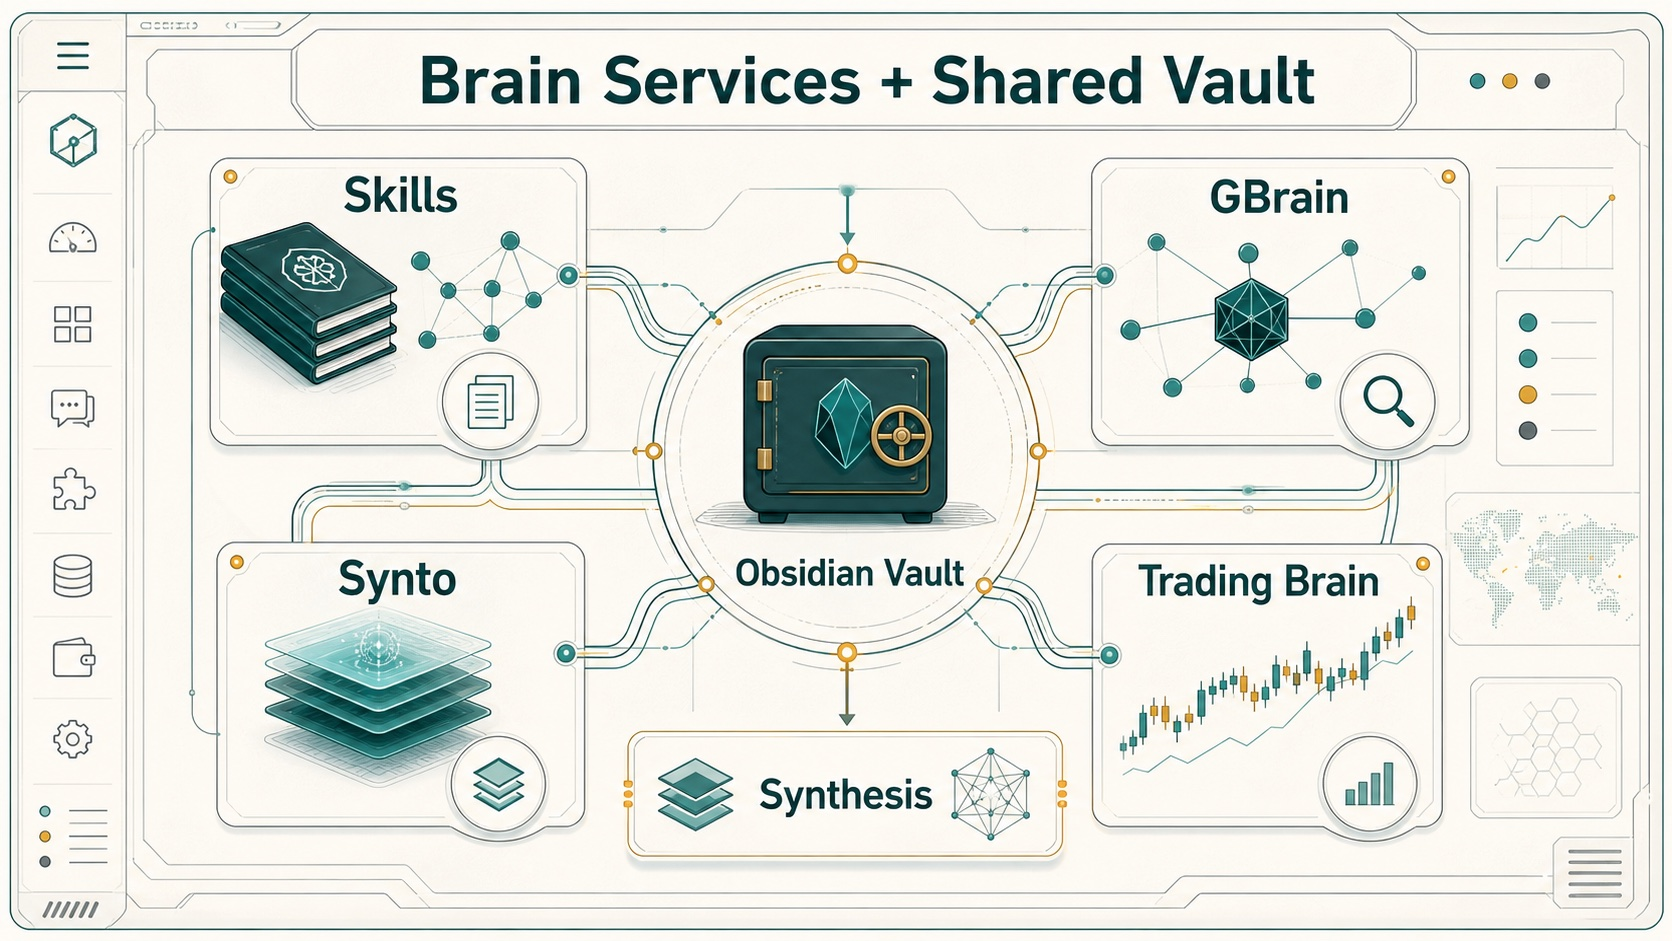
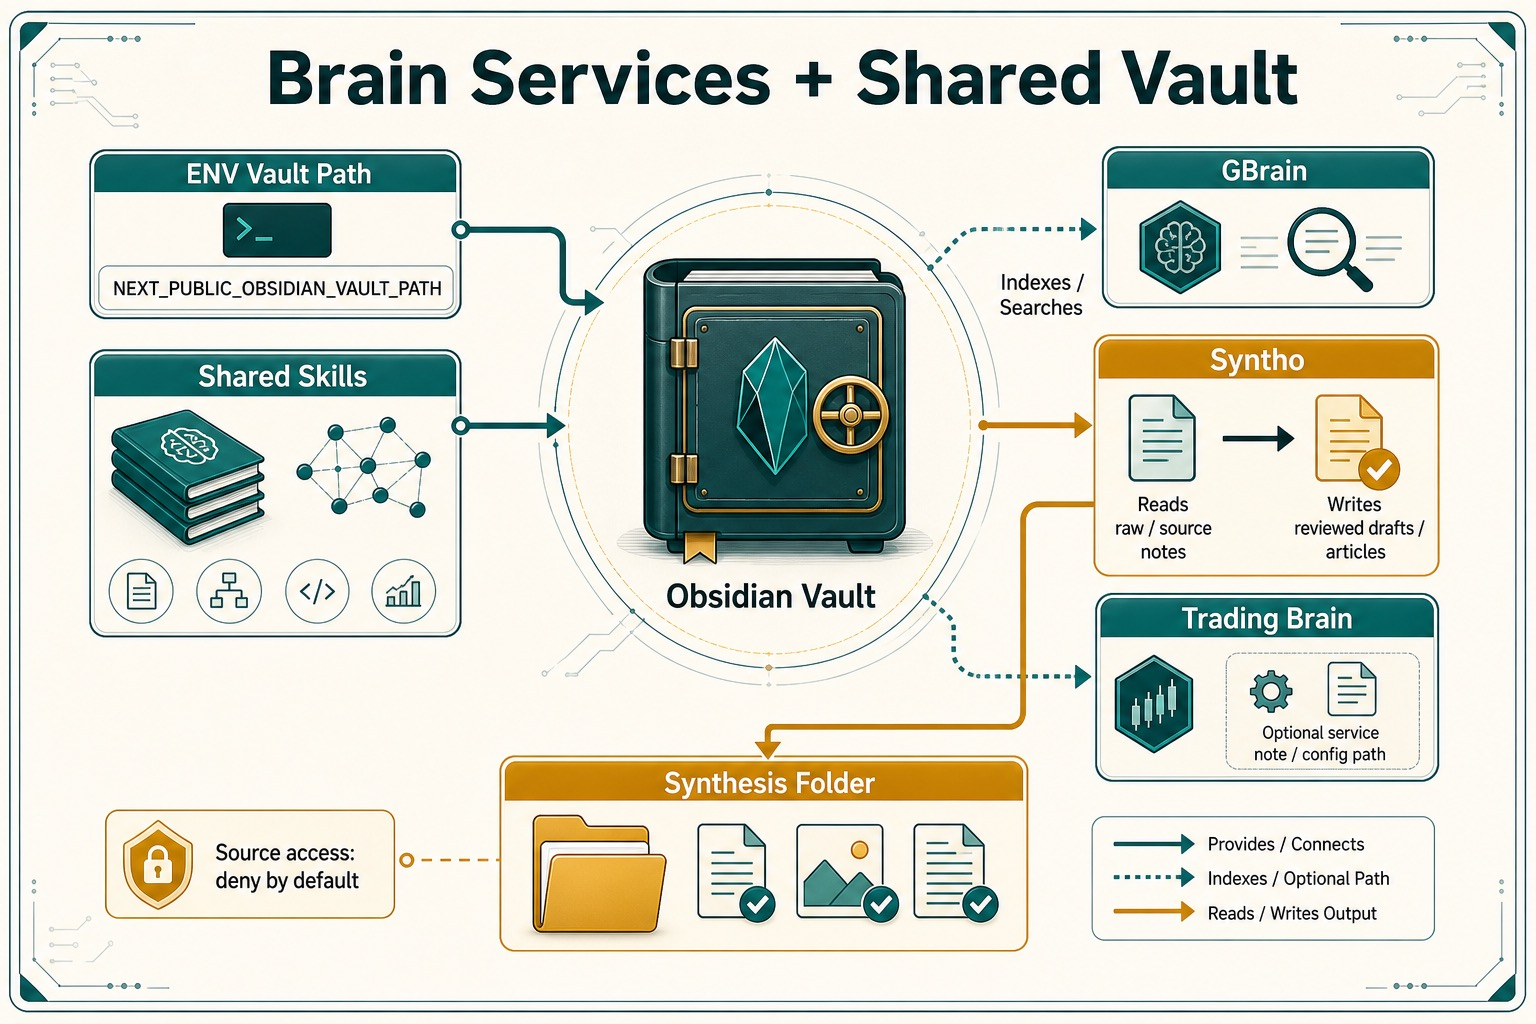
Correct imagegen diagram semantics

diff --git a/docs/diagrams.md b/docs/diagrams.md
@@ -19,16 +19,16 @@ description: Visual atlas for HivemindOS architecture, wallets, runtimes, fleet,
 
 <div class="imagePlateGrid">
   <figure class="imagePlate">
-    <img src="assets/img/diagrams/wallet-token-rails.jpg" alt="Generated wallet and token rails infographic showing agent wallet, Base and Solana, USDC, UsePod, x402, Honey, and Bankr HIVE.">
-    <figcaption>Wallets, token rails, prepaid inference, Honey, Bankr HIVE, and x402.</figcaption>
+    <img src="assets/img/diagrams/wallet-token-rails.jpg" alt="Generated wallet and token rails infographic with separate lanes for x402 paid APIs, UsePod prepaid runtime deposits, and Honey to Bankr HIVE claims.">
+    <figcaption>Wallet rails are three separate paths: wallet to x402, wallet to UsePod prepaid runtime, and runtime usage to Honey to Bankr HIVE claim.</figcaption>
   </figure>
   <figure class="imagePlate">
     <img src="assets/img/diagrams/fleet-tailnet-topology.jpg" alt="Generated fleet and Tailnet topology infographic showing dashboard, local collector, Tailnet or Link, remote collectors, apps, and runtimes.">
-    <figcaption>Fleet, collectors, Tailnet/Link reachability, app proxies, and runtimes.</figcaption>
+    <figcaption>Dashboard to local collector, then private Tailnet reachability out to remote collectors, machine health, apps, and runtimes.</figcaption>
   </figure>
   <figure class="imagePlate">
-    <img src="assets/img/diagrams/brain-services-vault.jpg" alt="Generated brain services and shared vault infographic showing Obsidian Vault, Skills, GBrain, Synto, Trading Brain, and Synthesis.">
-    <figcaption>Obsidian vault, shared skills, GBrain, Synto, Trading Brain, and Synthesis.</figcaption>
+    <img src="assets/img/diagrams/brain-services-vault.jpg" alt="Generated brain services and shared vault infographic showing ENV vault path, Obsidian Vault, Skills, GBrain, Syntho, Trading Brain, and Synthesis Folder.">
+    <figcaption>ENV vault path into Obsidian, shared skills, GBrain retrieval, Syntho reviewed output, Trading Brain, and the Synthesis folder.</figcaption>
   </figure>
   <figure class="imagePlate">
     <img src="assets/img/diagrams/workboard-scheduler-loop.jpg" alt="Generated workboard and scheduler loop infographic showing Ideas, Ready, Working, Done, Scheduler, Deliverables, and History.">
@@ -54,7 +54,7 @@ description: Visual atlas for HivemindOS architecture, wallets, runtimes, fleet,
   <a href="#honey-hive-flow">Honey And HIVE Flow <span>Observed usage, Honey ledger, Bankr claim path.</span></a>
   <a href="#workboard-lifecycle">Workboard Lifecycle <span>Ideas, assignment, runs, deliverables, history.</span></a>
   <a href="#scheduler-loop">Scheduler Loop <span>Shared schedules, runtime actions, skills, run phases.</span></a>
-  <a href="#brain-services">Brain Services <span>Obsidian, skills, GBrain, Synto, trading brain.</span></a>
+  <a href="#brain-services">Brain Services <span>Obsidian, skills, GBrain, Syntho, trading brain.</span></a>
   <a href="#native-bridge">Native Bridge <span>Tauri-first local actions with browser fallbacks.</span></a>
   <a href="#phone-voice">Phone And Voice <span>Gateway, pairing, ring-agent, dashboard calls.</span></a>
   <a href="#aeon-github">AEON GitHub Path <span>OAuth, repo setup, Actions, OIDC brain access.</span></a>
@@ -96,7 +96,7 @@ flowchart LR
   <section class="infoTile"><b>01</b><strong>Fleet</strong><span>Discovers machines, collectors, app badges, health, and hivenet services.</span></section>
   <section class="infoTile"><b>02</b><strong>Agents</strong><span>Profiles bind runtime, model, env, wallet, vault, machine, and call context.</span></section>
   <section class="infoTile"><b>03</b><strong>Work</strong><span>Kanban, scheduler, swarm, history, note intake, and deliverables.</span></section>
-  <section class="infoTile"><b>04</b><strong>Brain</strong><span>Obsidian memory, graph, shared skills, GBrain, Synto, trading brain.</span></section>
+  <section class="infoTile"><b>04</b><strong>Brain</strong><span>Obsidian memory, graph, shared skills, GBrain, Syntho, trading brain.</span></section>
   <section class="infoTile"><b>05</b><strong>Wallets</strong><span>Base/Solana, USDC, UsePod deposits, MoneyClaw, Honey, HIVE, x402.</span></section>
   <section class="infoTile"><b>06</b><strong>Native</strong><span>Tauri status, local folder actions, deliverable opening, packaged server.</span></section>
 </div>
@@ -222,10 +222,12 @@ flowchart TB
   Graph --> Dashboard["Brain Services cockpit"]
   Skills --> RuntimeSkills["Runtime skill sync"]
   Dashboard --> GBrain["GBrain import / embed / dream / query"]
-  Dashboard --> Synto["Synto Synthesis pipeline"]
+  Dashboard --> EnvPath["NEXT_PUBLIC_OBSIDIAN_VAULT_PATH"]
+  EnvPath --> Vault
+  Dashboard --> Syntho["Syntho reviewed-memory pipeline"]
   Dashboard --> Trading["Trading brain status"]
-  Synto --> Synthesis["Synthesis folder"]
-  Synto --> SourcePolicy["Source access policy: deny by default"]
+  Syntho --> Synthesis["Synthesis folder"]
+  Syntho --> SourcePolicy["Source access policy: deny by default"]
   GBrain --> Query["Graph memory query"]
 ```
 

diff --git a/docs/features/brain-vault-and-skills.md b/docs/features/brain-vault-and-skills.md
@@ -27,13 +27,13 @@ Seeded structure:
 - `Operations/Brain Services/Obsidian Plugin Pack.md` lists optional manual Obsidian plugins for templates, tasks, Dataview, retrieval, calendar, Kanban, and Git.
 - `Operations/Automations/Foundation Workflows/` contains disabled workflow schedules for context synthesis, intake processing, meeting processing, research ingestion, vault health checks, decision review, argument building, book notes, feedback-loop capture, project updates, weekly synthesis, connection finding, and distillation.
 
-## Brain Graph, GBrain, Synto, And Trading Brain
+## Brain Graph, GBrain, Syntho, And Trading Brain
 
 How it works:
 
 - Brain graph generation is in `src/lib/services/obsidian/brain-graph.ts`.
 - GBrain actions are in `src/lib/services/brain/gbrain.ts`.
-- Synto actions are in `src/lib/services/brain/synto.ts`.
+- Syntho actions are in `src/lib/services/brain/synto.ts`; the internal API slug and installed CLI command remain `synto`.
 - Trading-brain install/status lives in `src/lib/services/brain/trading-brain.ts`.
 - API routes live under `/api/brain/gbrain/*`, `/api/brain/synto/*`, `/api/brain/trading-brain/*`, and `/api/obsidian/graph`.
 
@@ -44,17 +44,17 @@ Capabilities:
 - Install or connect GBrain.
 - Import the vault into GBrain.
 - Embed, dream, and query through configured GBrain commands.
-- Install or connect Synto.
-- Initialize the `Synthesis` folder as a Synto vault.
-- Run Synto pipeline, maintain, compare, eval, doctor, query, and pack export commands.
-- Record the Synto MCP command and source-access policy in the brain-service note.
-- Keep Synto raw-source MCP access denied by default unless the user explicitly changes the source-access policy.
+- Install or connect Syntho.
+- Initialize the `Synthesis` folder as a Syntho vault.
+- Run Syntho pipeline, maintain, compare, eval, doctor, query, and pack export commands.
+- Record the Syntho MCP command and source-access policy in the brain-service note.
+- Keep Syntho raw-source MCP access denied by default unless the user explicitly changes the source-access policy.
 - Attach trading-brain status to selected runtimes where configured.
 - Write service notes back into the vault.
 
-### Synto Model
+### Syntho Model
 
-Synto is treated as an optional reviewed-memory compiler for the `Synthesis` folder, not as a replacement for the raw vault. HivemindOS tracks:
+Syntho is treated as an optional reviewed-memory compiler for the `Synthesis` folder, not as a replacement for the raw vault. HivemindOS tracks:
 
 - CLI path and install mode.
 - `synto.toml` and `.synto/state.db` initialization state.
@@ -62,7 +62,7 @@ Synto is treated as an optional reviewed-memory compiler for the `Synthesis` fol
 - MCP mode, MCP command, exposed tool names, and source-access mode.
 - Compare model, confidence threshold, and whether high-confidence changes can be auto-approved.
 
-The dashboard writes these settings into `Operations/Brain Services/Synto.md` and mirrors them into shared-vault config so other agents can see the intended policy.
+The dashboard writes these settings into `Operations/Brain Services/Syntho.md` and mirrors them into shared-vault config so other agents can see the intended policy.
 
 ## Shared Skills
 

diff --git a/docs/architecture/index.md b/docs/architecture/index.md
@@ -60,7 +60,7 @@ The dashboard route is `src/app/page.tsx`. It accepts `view` and `vaultPanel` qu
 - `src/features/dashboard/hooks/use-kanban-dispatch-controller.tsx`: agent dispatch, runtime session polling, completion handling, and stalled work detection.
 - `src/features/dashboard/hooks/use-scheduler-controller.tsx`: shared schedules and runtime schedule actions.
 - `src/features/dashboard/hooks/use-agent-controller.tsx`: runtime integrations, agent creation, runtime sessions, and agent settings.
-- `src/features/dashboard/hooks/use-miroshark-brain-controller.tsx`: MiroShark, Obsidian graph, shared skills, recent directories, GBrain/Synto-adjacent vault context, and shared notifications.
+- `src/features/dashboard/hooks/use-miroshark-brain-controller.tsx`: MiroShark, Obsidian graph, shared skills, recent directories, GBrain/Syntho-adjacent vault context, and shared notifications.
 - `src/features/dashboard/hooks/use-wallet-files-controller.tsx`: wallets, Honey, runtime usage, MoneyClaw, x402, maintenance, and runtime files.
 - `src/features/dashboard/hooks/use-status-chat-input-controller.tsx`: chat sending, setup/status helpers, Obsidian access, and sync actions.
 - `src/features/dashboard/hooks/use-chat-tree-controller.tsx`: chat folder tree, runtime session hydration, directory context, and folder creation.
@@ -83,7 +83,7 @@ The app uses Next.js route handlers under `src/app/api`. They form the dashboard
 - OpenClaw runtime support is kept inside the generic runtime and chat layers rather than standalone product routes.
 - `/api/miroshark/*`: companion status, install/start, swarm templates/runs, analysis.
 - `/api/wallet/*`: local wallet creation, balances, sends, MoneyClaw, backups, x402 calls.
-- `/api/brain/*`: GBrain, Synto, and trading-brain status/install/query actions.
+- `/api/brain/*`: GBrain, Syntho, and trading-brain status/install/query actions.
 - `/api/env`, `/api/runtime-files`, `/api/maintenance`, `/api/memory-telemetry`, `/api/telemetry/events`, `/api/work-history`: local utility surfaces.
 
 See [API And Storage Reference](api-and-storage.md) for route grouping details.
@@ -152,7 +152,7 @@ Important storage locations:
 
 - Browser `localStorage`: UI preferences, local agent config, cached dashboard state, chat history snippets, and user-selected settings.
 - `~/.hivemindos`: install id, shared env, collector env, Kanban fallback, runtime agent registry, wallet vault, Honey ledger cache, runtime run cache, skill auto-sync config.
-- Obsidian vault: shared brain, Kanban board files, notifications, scheduled-run files, wallet ledger notes, recent directories, shared skills, machine aliases, graph access logs, GBrain and Synto service notes.
+- Obsidian vault: shared brain, Kanban board files, notifications, scheduled-run files, wallet ledger notes, recent directories, shared skills, machine aliases, graph access logs, GBrain and Syntho service notes.
 - Runtime homes: Hermes, OpenClaw, Aeon, and local OpenAI-compatible server config/state.
 - Cloudflare D1: optional official Honey ledger and compute gateway accounting.
 

diff --git a/CHANGELOG.md b/CHANGELOG.md
@@ -3,6 +3,14 @@
 This file records user-visible changes before they are committed. New work should
 be added here first, then marked `Committed` or `Pushed` after the git action.
 
+## 2026-06-01 03:25:00 WITA - Correct Imagegen Diagram Semantics
+
+- Status: Pushed
+- Areas changed: GitHub Pages diagrams atlas, generated image assets, brain/wallet docs, Syntho docs terminology, changelog
+- Summary: Regenerate the wallet/token, brain/vault, and Fleet/Tailnet imagegen plates with clearer semantics; split wallet, UsePod, and Honey/Bankr HIVE into separate lanes; add the env-vault-path lane to the Obsidian vault plate; fix the Fleet topology plate spelling; and rename public Synto references to Syntho while preserving the internal `synto` API/CLI slug.
+- Verification: `git diff --check -- docs CHANGELOG.md src/features/dashboard/DashboardApp.tsx src/features/dashboard/views/VaultPanel.tsx src/features/dashboard/views/brain-services-ui.tsx src/lib/types/agent-runtime.ts src/lib/services/brain/synto.ts src/app/api/brain/synto scripts/test-gbrain-foundation.mjs setup.sh setup.ps1 uninstall.sh uninstall.ps1`; markdown and HTML image link check across `docs/**/*.md`; generated asset size check for all seven diagram JPEGs; `node scripts/test-gbrain-foundation.mjs`; `pnpm exec tsc --noEmit --pretty false --skipLibCheck`; `pnpm exec eslint src/features/dashboard/DashboardApp.tsx src/features/dashboard/views/VaultPanel.tsx src/lib/types/agent-runtime.ts scripts/test-gbrain-foundation.mjs --max-warnings=999` passed with existing DashboardApp warnings only.
+- Intended commit message: `Correct imagegen diagram semantics`
+
 ## 2026-06-01 02:56:37 WITA - Add Imagegen Infographic Plates
 
 - Status: Pushed

diff --git a/docs/index.md b/docs/index.md
@@ -65,7 +65,7 @@ The codebase now spans more than the original Fleet, Work, Brain, Chat, and Wall
 - My Apps: hivenet app and API-service discovery with icon proxying, health checks, service-kind signatures, OpenAPI/Hivemind route catalogs, route copy actions, and safe open links.
 - AEON: repository/workspace management, local clone/link flows, GitHub-backed duplicates, scheduler handoff, brain access, and deliverable discovery/download/transfer.
 - Swarm: MiroShark template-driven simulations, scenario helpers, archive loading, X/polymarket/reddit-style outputs, run intelligence, publish actions, and analysis-agent selection.
-- Brain Services: Obsidian graph, shared skills, GBrain, Synto, trading-brain install/status, service notes, Synthesis-folder configuration, and source-access policy controls.
+- Brain Services: Obsidian graph, shared skills, GBrain, Syntho, trading-brain install/status, service notes, Synthesis-folder configuration, and source-access policy controls.
 - Wallets, Tokens, and Usage: per-agent wallets, Base/Solana token rails, MoneyClaw key validation, UsePod prepaid status, x402 smoke tests, encrypted wallet-vault backup/restore, Honey observation, and Bankr HIVE claims.
 - Work History and Maintenance: dynamic changelog history, note-to-Kanban intake, bulk task triage, process/heap memory telemetry, and conservative local repair actions.
 - Native Desktop: a Tauri shell that can read desktop status directly and use native local folder browsing/creation while preserving the browser API fallbacks.

diff --git a/docs/architecture/api-and-storage.md b/docs/architecture/api-and-storage.md
@@ -11,7 +11,7 @@ All routes below are served by the Next.js app under `src/app/api`.
 | `/api/agents/*` | Agent status checks, runtime agent creation/deletion, folder browsing |
 | `/api/app/version` | App version and checkout metadata |
 | `/api/brain/gbrain/*` | GBrain status, install, connect, import, embed, dream, and query |
-| `/api/brain/synto/*` | Synto status, install, connect, init, run, maintain, compare, eval, doctor, pack export, and query |
+| `/api/brain/synto/*` | Syntho status, install, connect, init, run, maintain, compare, eval, doctor, pack export, and query |
 | `/api/brain/trading-brain/*` | Trading brain status and install |
 | `/api/chat/*` | Agent chat, runtime chat stream, session reads, chat folder persistence |
 | `/api/control-room/status` | Control-room path and setup status checks |
@@ -176,8 +176,8 @@ Default folders and files are configured in `DEFAULT_SHARED_VAULT` in `src/lib/t
 | `Operations/Work Board` | Kanban board state |
 | `Operations/Agent Notifications` | Notification records and settings |
 | `Operations/Automations` | Scheduled schedules and run records |
-| `Operations/Brain Services` | GBrain/Synto/trading-brain service notes |
-| `Synthesis` | Reviewed synthesis layer and optional Synto vault |
+| `Operations/Brain Services` | GBrain/Syntho/trading-brain service notes |
+| `Synthesis` | Reviewed synthesis layer and optional Syntho vault |
 | `Skills/README.md` | Shared skill index |
 | `Skills/<slug>/SKILL.md` | Shared skill definitions |
 

diff --git a/docs/features/index.md b/docs/features/index.md
@@ -12,7 +12,7 @@ For a faster spatial read, start with the [Diagrams And Maps](../diagrams.md) at
 
 ## Shared Brain
 
-- [Brain, Vault, And Skills](brain-vault-and-skills.md): Obsidian vault, brain graph, shared skills, GBrain, Synto, trading brain, note intake, Synthesis, and sync ownership.
+- [Brain, Vault, And Skills](brain-vault-and-skills.md): Obsidian vault, brain graph, shared skills, GBrain, Syntho, trading brain, note intake, Synthesis, and sync ownership.
 - [Env, Files, Notifications, And Maintenance](env-files-notifications-maintenance.md): env sync, runtime files, notifications, memory telemetry, and repair checks.
 
 ## Integrations And Economy
@@ -41,7 +41,7 @@ flowchart TD
   Work --> History["Work history"]
   Vault["Brain and vault"] --> Skills["Shared skills"]
   Vault --> GBrain["GBrain"]
-  Vault --> Synto["Synto / Synthesis"]
+  Vault --> Syntho["Syntho / Synthesis"]
   Vault --> Notifications["Notifications"]
   Vault --> Env["Shared env"]
   Runtimes --> OpenClaw["OpenClaw"]
